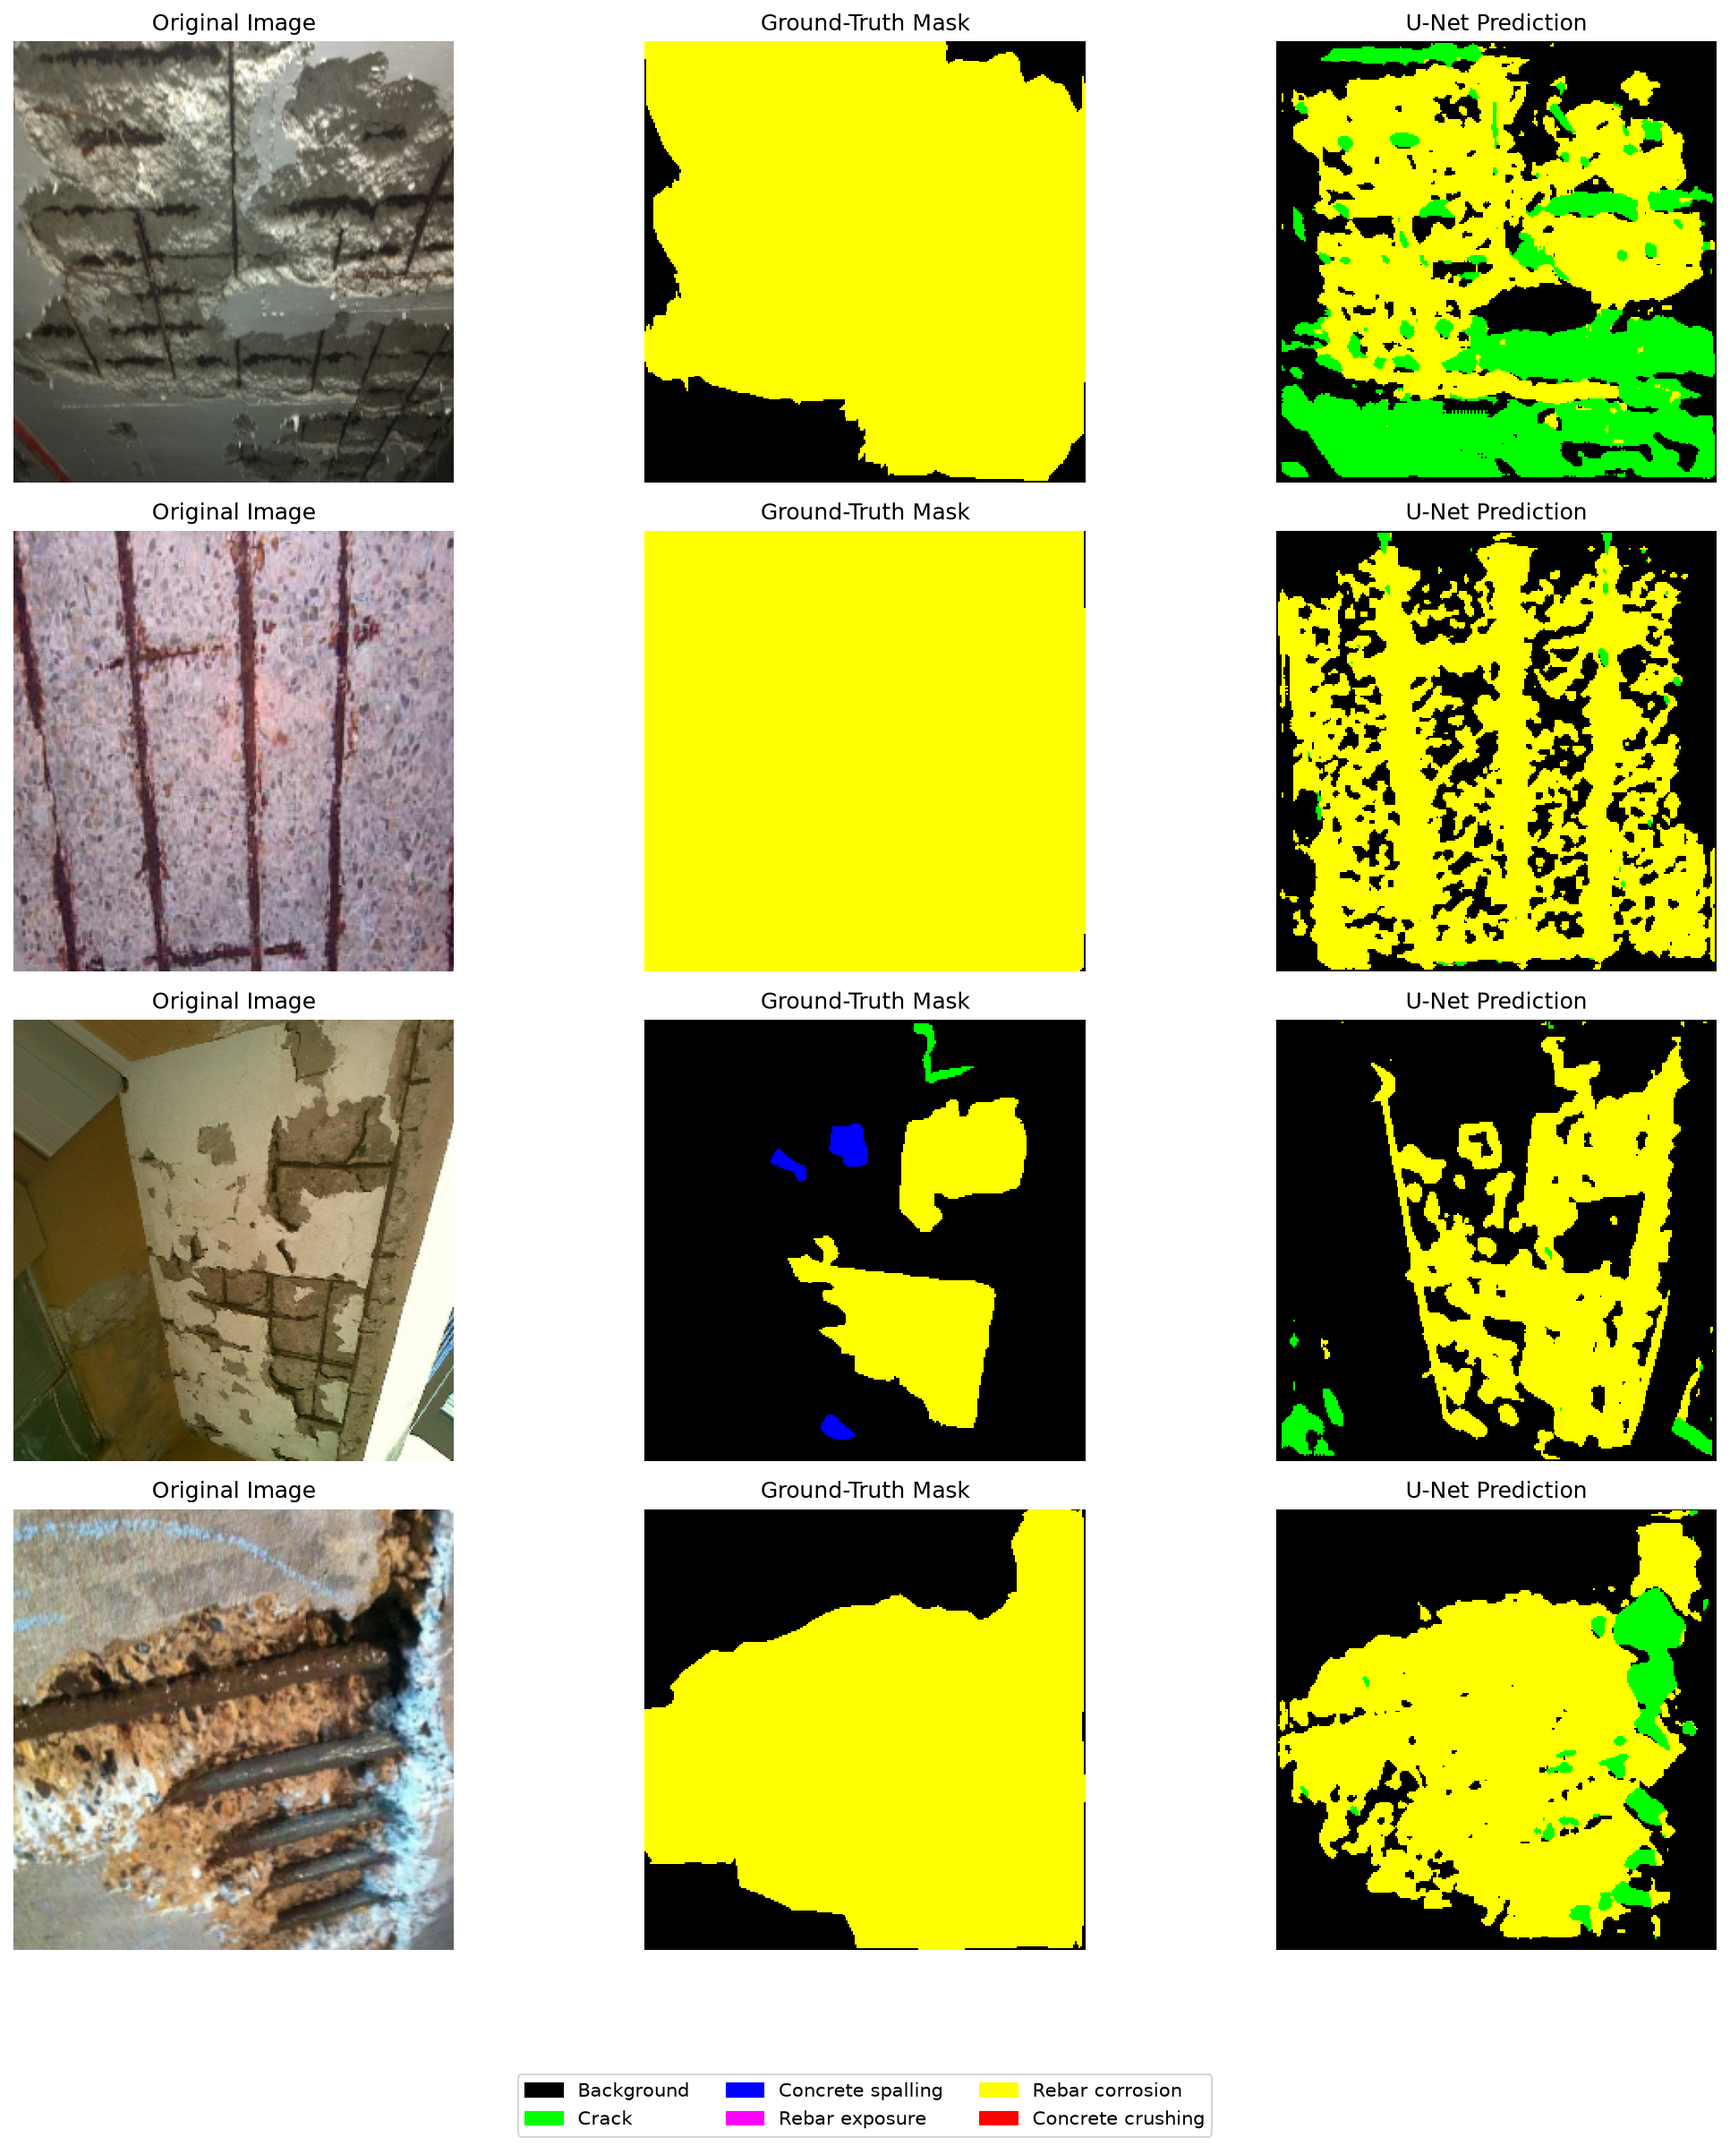
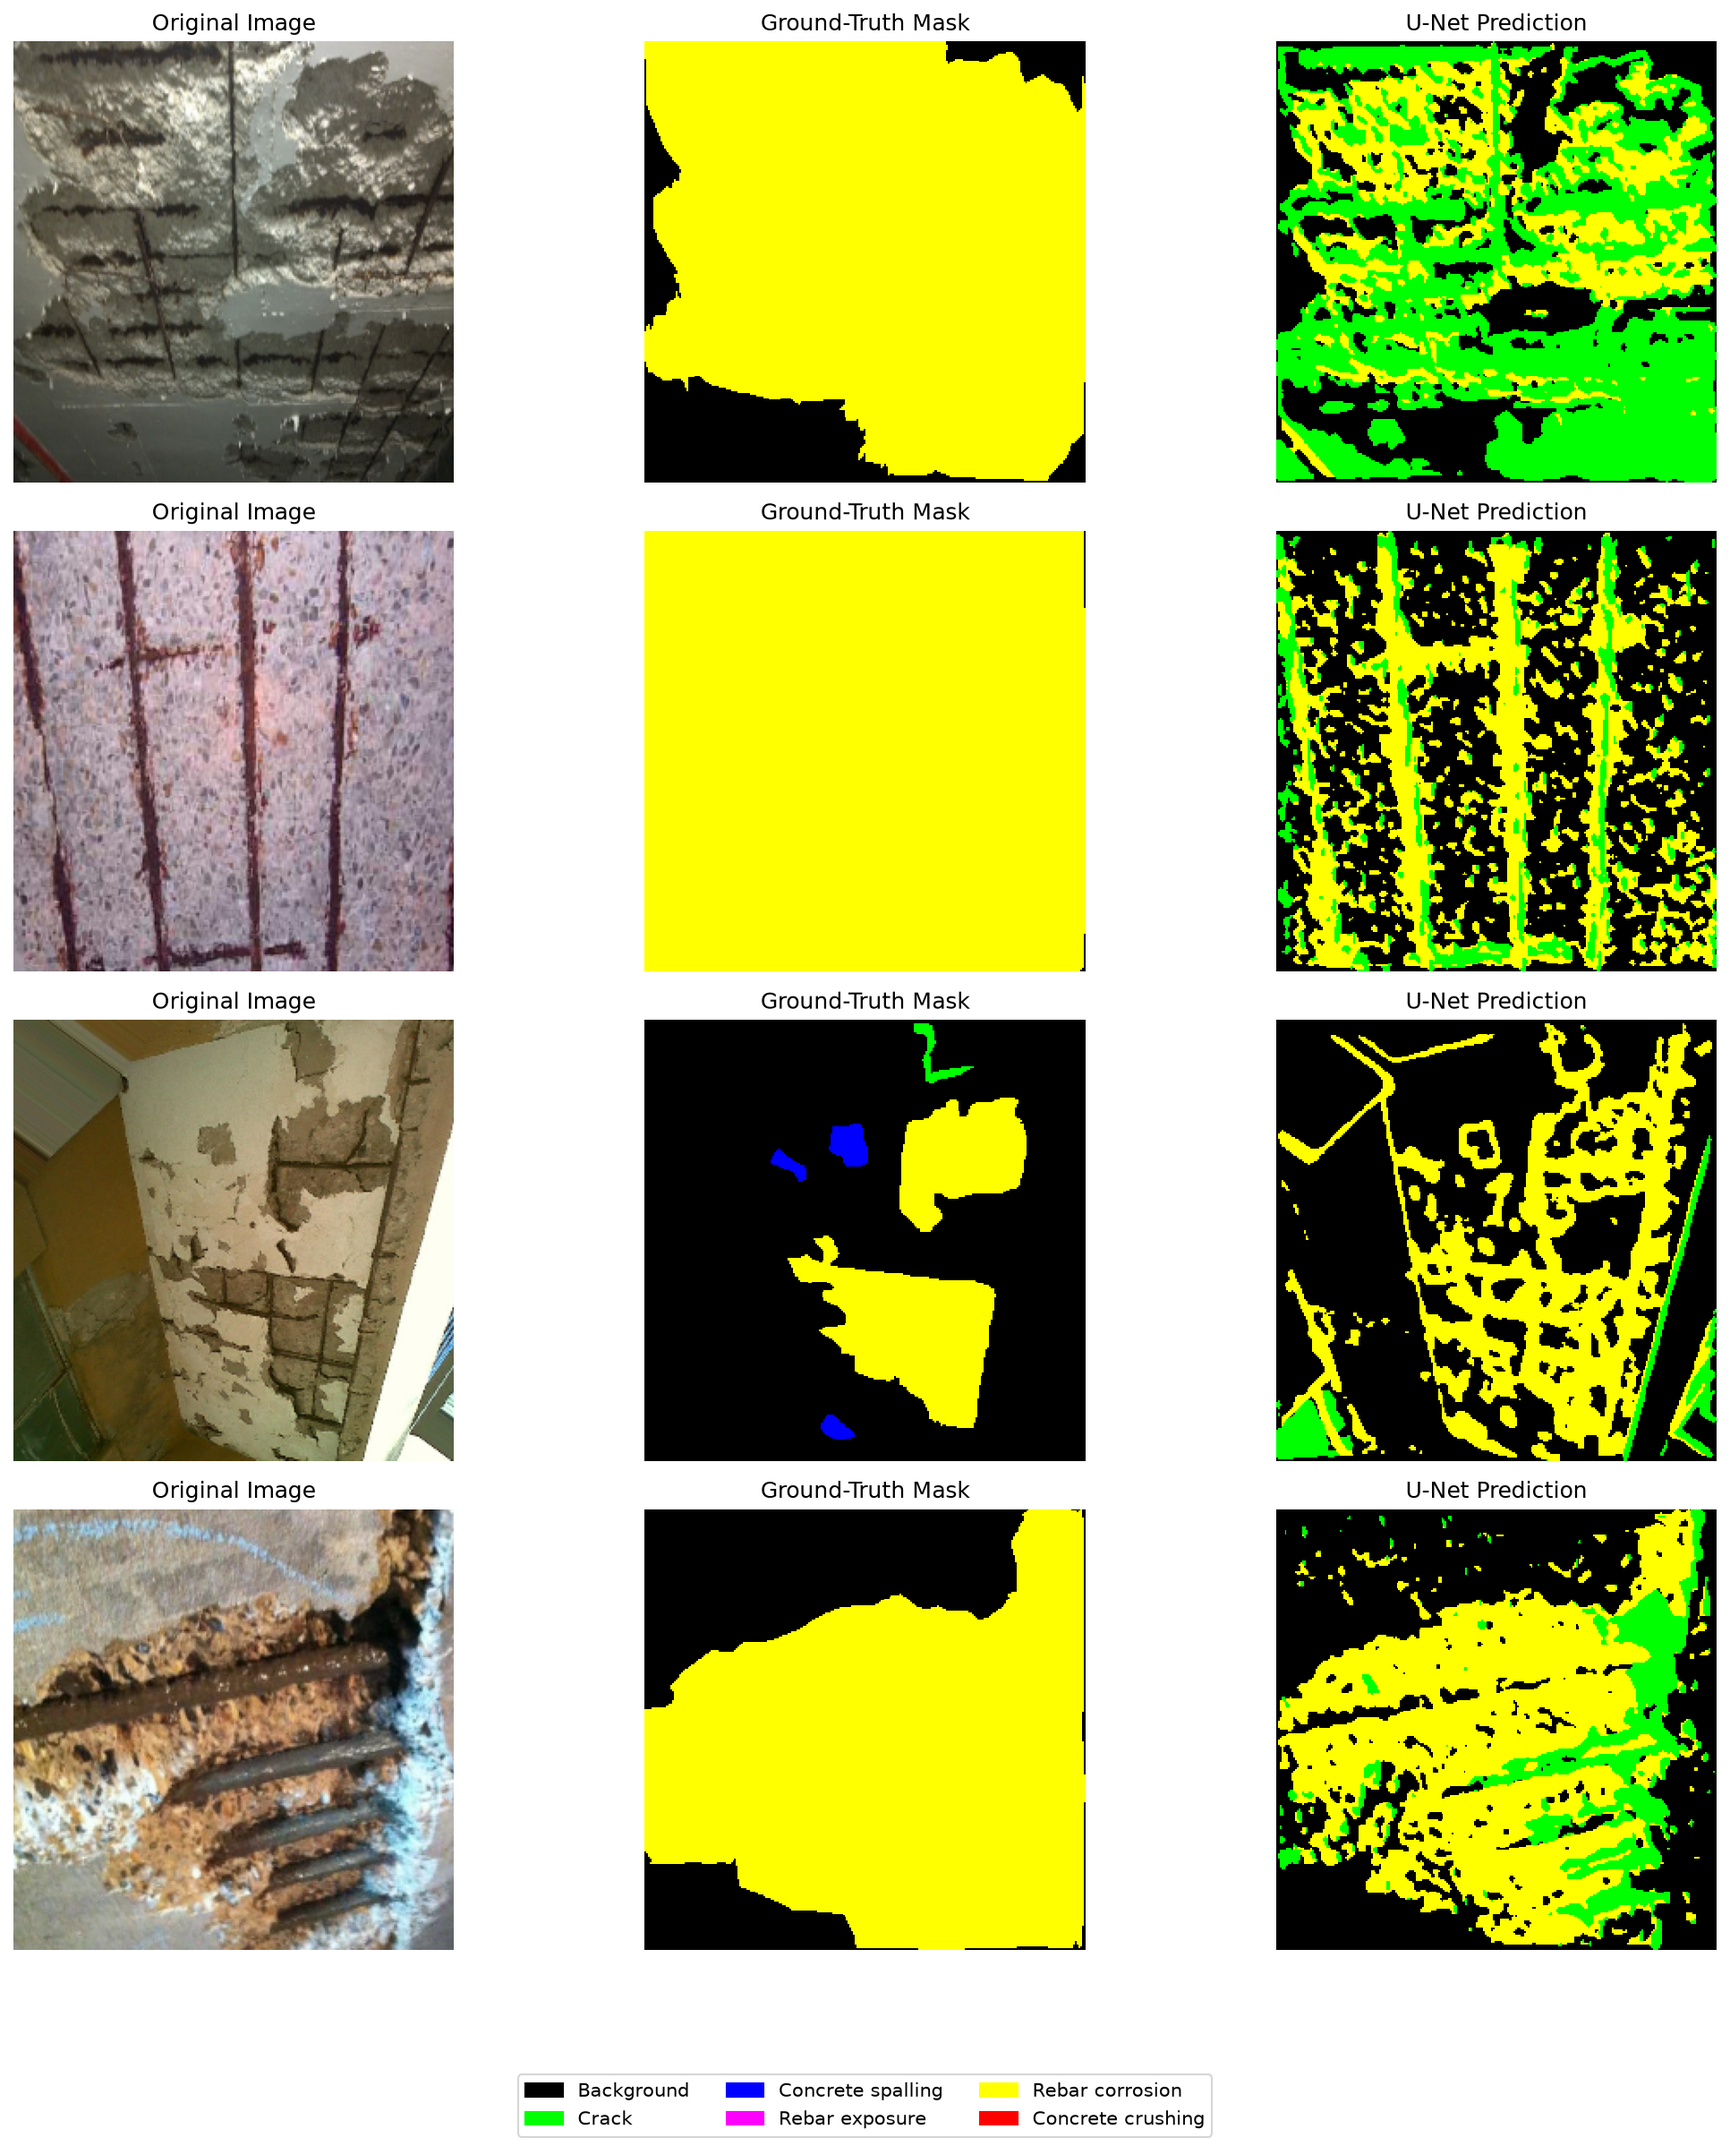
Trained the model by assigning class weights to each class. ( from Ordinary Cross entropy loss to weighted cross entropy loss)

diff --git a/src/train_unet.py b/src/train_unet.py
@@ -28,7 +28,33 @@ PROJECT_PATH = Path(__file__).resolve().parents[1]
 CHECKPOINT_DIR = PROJECT_PATH / "checkpoints"
 CHECKPOINT_DIR.mkdir(parents=True, exist_ok=True)
 
-BEST_MODEL_PATH = CHECKPOINT_DIR / "unet_best.pth"
+BEST_MODEL_PATH = CHECKPOINT_DIR / "unet_weighted_best.pth"
+
+CLASS_WEIGHTS_PATH = CHECKPOINT_DIR / "class_weights.npy"
+
+class_weights_array = np.load(CLASS_WEIGHTS_PATH)
+
+if class_weights_array.shape != (NUM_CLASSES,):
+    raise ValueError("Expected exactly 6 class weights.")
+
+if not np.isfinite(class_weights_array).all():
+    raise ValueError("Class weights contain invalid values.")
+
+if torch.backends.mps.is_available():
+    device = torch.device("mps")
+else:
+    device = torch.device("cpu")
+
+print("Using device:", device)
+
+
+class_weights = torch.tensor(
+    class_weights_array,
+    dtype=torch.float32,
+    device=device,
+)
+
+print("Class weights:", class_weights.cpu().tolist())
 
 
 # --------------------------------------------------
@@ -39,12 +65,7 @@ random.seed(SEED)
 np.random.seed(SEED)
 torch.manual_seed(SEED)
 
-if torch.backends.mps.is_available():
-    device = torch.device("mps")
-else:
-    device = torch.device("cpu")
 
-print("Using device:", device)
 
 
 # --------------------------------------------------
@@ -83,7 +104,7 @@ print("Validation images:", len(validation_dataset))
 
 model = UNet(num_classes=NUM_CLASSES).to(device)
 
-criterion = nn.CrossEntropyLoss()
+criterion = nn.CrossEntropyLoss(weight=class_weights)
 
 optimizer = torch.optim.Adam(
     model.parameters(),

diff --git a/src/evaluate_unet.py b/src/evaluate_unet.py
@@ -16,7 +16,9 @@ from unet import UNet
 # --------------------------------------------------
 
 PROJECT_PATH = Path(__file__).resolve().parents[1]
-CHECKPOINT_PATH = PROJECT_PATH / "checkpoints" / "unet_best.pth"
+CHECKPOINT_PATH = (
+    PROJECT_PATH / "checkpoints" / "unet_weighted_best.pth"
+)
 
 NUM_CLASSES = 6
 BATCH_SIZE = 4

diff --git a/src/test_unet.py b/src/test_unet.py
@@ -6,6 +6,7 @@ from dataset import StructuralDefectDataset, SPLIT_DIR
 from unet import UNet
 
 
+
 def main():
 
     # Select Apple's GPU when available.
